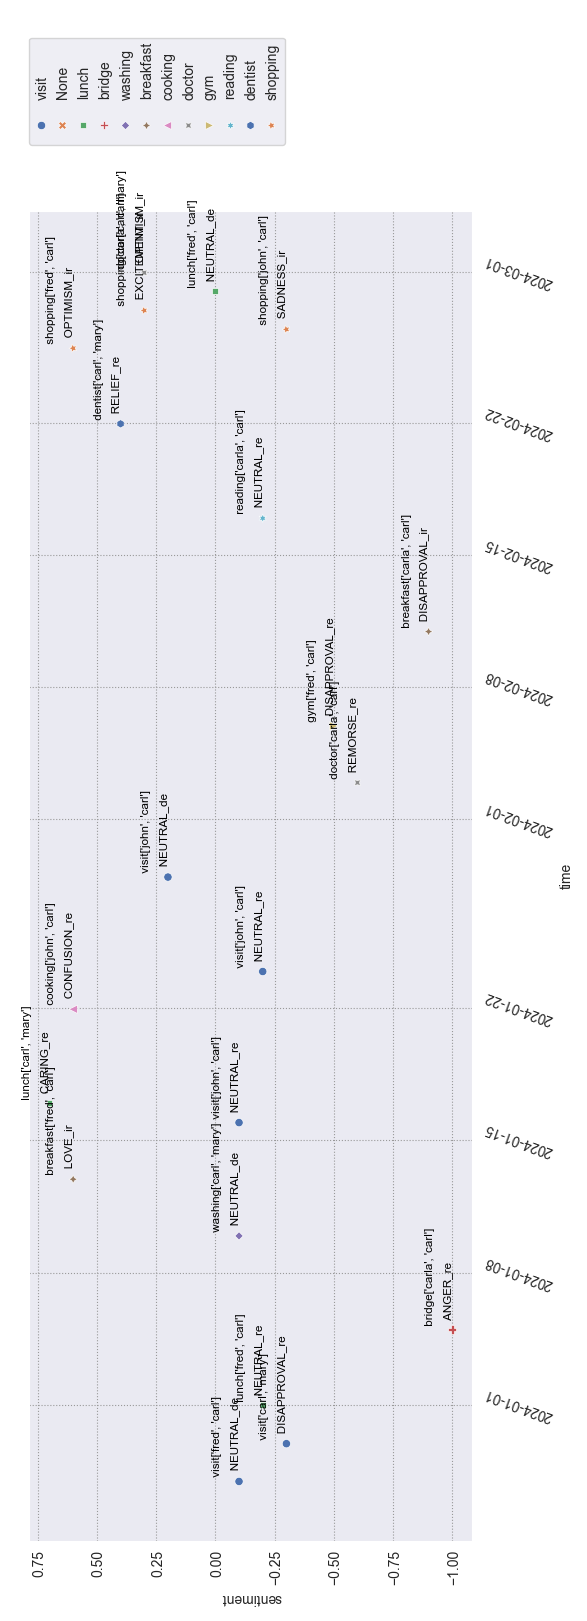
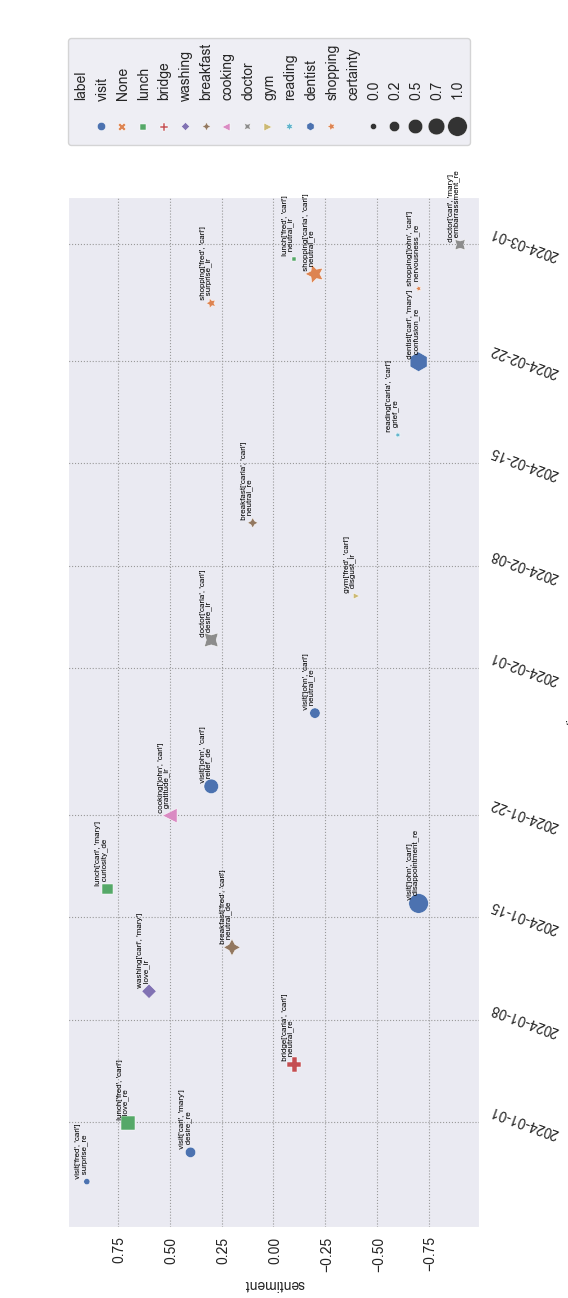
structured diary application

diff --git a/examples/structured_diary.py b/examples/structured_diary.py
@@ -150,7 +150,7 @@ if __name__ == "__main__":
     #ax = sns.lineplot(x='time', y='sentiment', hue='label', data=df) #hue='label',
     sns.set_style("darkgrid", {"grid.color": ".6", "grid.linestyle": ":"})
 
-    ax = sns.scatterplot(x='time', y='sentiment', hue='label', data=df,  style='label', palette="deep", sizes=(20, 200), legend="full")
+    ax = sns.scatterplot(x='time', y='sentiment', hue='label', data=df,  size="certainty", style='label', palette="deep", sizes=(20, 200), legend="full")
 
     # Add labels at the peak points
     #for category in df['label'].unique():
@@ -172,13 +172,15 @@ if __name__ == "__main__":
         elif polarity>0.5:
             realis="re"
         if not category=="None":
-            ax.text(x, y, s=" "+str(category)+str(actors)+"\n   "+str(emotion.name)+"_"+realis, horizontalalignment='left', size='small', color='black', verticalalignment='bottom', linespacing=2)
+            ax.text(x, y, s=" "+str(category)+str(actors)+"\n   "+str(emotion.name).lower()+"_"+realis, horizontalalignment='left', size='xx-small', color='black', verticalalignment='bottom', linespacing=1)
 
 
     ax.tick_params(axis='x', rotation=70)
     # Show the plot
     plt.legend(bbox_to_anchor=(1.05, 1), loc='upper left', borderaxespad=0)
     plt.show()
+
     path = target+".png"
-    plt.savefig(path, dpi=300, transparent=True)
+   # plt.savefig(path, dpi=300, transparent=True)
+    plt.savefig(path)
 
